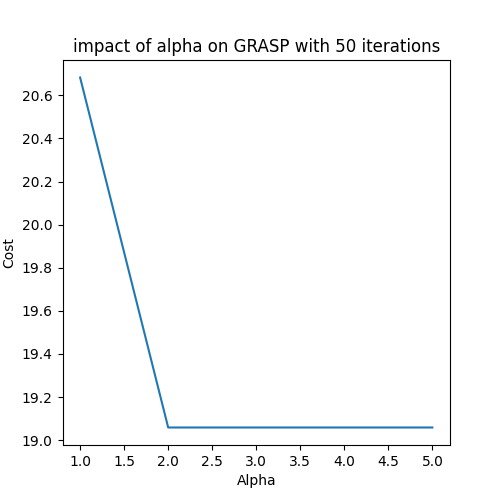
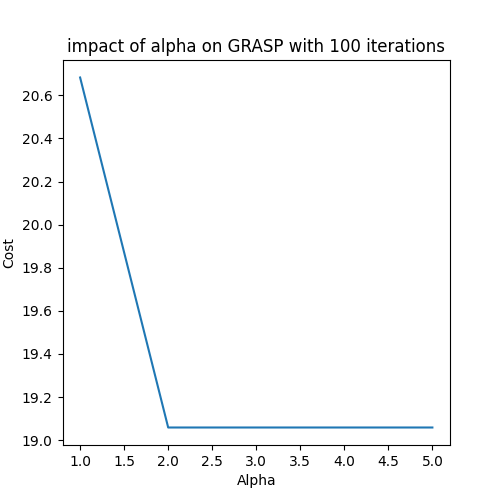
generate more plots and add comparison in fucntion of the number of cities

Changed region(s): [[0.12, 0.06, 0.9, 0.12]]

diff --git a/main.py b/main.py
@@ -12,45 +12,19 @@ if __name__ == "__main__":
         City("E", 6, 5),
         City("F", 1, 5),
         City("G", 3, 1),
-        City("H", 0, 5),#
-        # City("I", 5, 2),
-        # City("J", 3, 8),
-        # City("K", 8, 0),
-        # City("L", 5, 6),
-        # City("M", 2, 3),
-        # City("N", 4, 7),
-        # City("O", 6, 3),
-        # City("P", 4, 1),
-        # City("Q", 7, 8),
-        # City("R", 1, 1),
-        # City("S", 3, 4),
-        # City("T", 8, 4),
-        # City("U", 4, 0),
-        # City("V", 2, 8),
-        # City("W", 6, 7),
-        # City("X", 0, 2),
-        # City("Y", 5, 0),
-        # City("Z", 7, 5),
+        City("H", 0, 5)
     ]
-
-    alpha = 3
-    iterations = 100
-
-    # search
-    grasp = Grasp(alpha, iterations)
-    best_solution, t_explore, t_exploit = grasp.search(cities)
-    best_solution.print_solution(best_solution)
-    best_solution.plot_solution(best_solution)
 
     # test grasp using different values of alpha
     alphas = [i for i in range(1, 6)]
-    iterations = 50
+    iterations = 100
     explore_times = []
     exploit_times = []
     cost_solutions = []
     for alpha in alphas:
+        h = []
         grasp = Grasp(alpha, iterations)
-        best_solution, t_explore, t_exploit = grasp.search(cities)
+        best_solution, t_explore, t_exploit, h = grasp.search(cities)
         explore_times.append(t_explore)
         exploit_times.append(t_exploit)
         cost_solutions.append(best_solution.cost)
@@ -58,6 +32,13 @@ if __name__ == "__main__":
         print(f"Explore time: {t_explore}")
         print(f"Exploit time: {t_exploit}")
         print()
+        # plot the curve of the cost
+        plt.figure(figsize=(5, 5))
+        plt.plot(h)
+        plt.title(f"impact of alpha on cost variation")
+        plt.ylabel("Cost")
+        plt.xlabel("Iteration")
+        plt.savefig("{}{}.png".format("alpha_variation", alpha))
     # plot the results as group bars chart only for 2 variables (time explore and time exploit)
     plt.figure(figsize=(5, 5))
     barWidth = 0.25
@@ -66,7 +47,7 @@ if __name__ == "__main__":
     plt.bar(r1, explore_times, color="blue", width=barWidth, label="Explore time")
     plt.bar(r2, exploit_times, color="red", width=barWidth, label="Exploit time")
     plt.xticks([r + barWidth for r in range(len(explore_times))], alphas)
-    plt.title(f"impact of alpha on GRASP with {iterations} iterations")
+    plt.title(f"impact of alpha on GRASP")
     plt.ylabel("Time")
     plt.xlabel("Alpha")
     plt.legend()
@@ -87,15 +68,24 @@ if __name__ == "__main__":
     exploit_times = []
     cost_solutions = []
     for iteration in iterations:
+        h = []
         grasp = Grasp(alpha, iteration)
-        best_solution, t_explore, t_exploit = grasp.search(cities)
+        best_solution, t_explore, t_exploit, h = grasp.search(cities)
         explore_times.append(t_explore)
         exploit_times.append(t_exploit)
         cost_solutions.append(best_solution.cost)
+        h.append(best_solution.cost)
         print(f"Iteration: {iteration}")
         print(f"Explore time: {t_explore}")
         print(f"Exploit time: {t_exploit}")
         print()
+        # plot the curve of the cost
+        plt.figure(figsize=(5, 5))
+        plt.plot(h)
+        plt.title(f"impact of iteration on cost variation")
+        plt.ylabel("Cost")
+        plt.xlabel("Iteration")
+        plt.savefig("{}{}.png".format("iteration_variation", iteration))
     # plot the results as group bars chart only for 2 variables (time explore and time exploit)
     plt.figure(figsize=(5, 5))
     barWidth = 0.25
@@ -104,7 +94,7 @@ if __name__ == "__main__":
     plt.bar(r1, explore_times, color="blue", width=barWidth, label="Explore time")
     plt.bar(r2, exploit_times, color="red", width=barWidth, label="Exploit time")
     plt.xticks([r + barWidth for r in range(len(explore_times))], iterations)
-    plt.title(f"impact of iteration on GRASP with alpha = {alpha}")
+    plt.title(f"impact of iteration on GRASP")
     plt.ylabel("Time")
     plt.xlabel("Iteration")
     plt.legend()
@@ -114,7 +104,64 @@ if __name__ == "__main__":
     # plot the results of the cost
     plt.figure(figsize=(5, 5))
     plt.plot(iterations, cost_solutions)
-    plt.title(f"impact of iteration on GRASP with alpha = {alpha}")
+    plt.title(f"impact of iteration on GRASP")
     plt.ylabel("Cost")
     plt.xlabel("Iteration")
     plt.savefig("{}.png".format("iteration_cost"))
+
+    # generate random cities
+    tasks = []
+    for i in range(3):
+        citie = []
+        for j in range(10 * (i + 1)):
+            citie.append(City(f"{i}{j}", random.randint(0, 30), random.randint(0, 30)))
+        tasks.append(citie)          
+
+    alpha = 3
+    iteration = 100
+    explore_times = []
+    exploit_times = []
+    cost_solutions = []
+    for citie in tasks:
+        h = []
+        grasp = Grasp(alpha, iteration)
+        best_solution, t_explore, t_exploit, h = grasp.search(citie)
+        explore_times.append(t_explore)
+        exploit_times.append(t_exploit)
+        cost_solutions.append(best_solution.cost)
+        h.append(best_solution.cost)
+        print(f"Nbr Cities: {len(citie)}")
+        print(f"Explore time: {t_explore}")
+        print(f"Exploit time: {t_exploit}")
+        print()
+        # plot the curve of the cost
+        plt.figure(figsize=(5, 5))
+        plt.plot(h)
+        plt.title(f"impact of number of cities on cost variation")
+        plt.ylabel("Cost")
+        plt.xlabel("cities")
+        plt.savefig("{}{}.png".format("cities_variation", len(citie)))
+        # print the solution
+        best_solution.plot_solution(best_solution)
+    # plot the results as group bars chart only for 2 variables (time explore and time exploit)
+    plt.figure(figsize=(5, 5))
+    barWidth = 0.25
+    r1 = np.arange(len(explore_times))
+    r2 = [x + barWidth for x in r1]
+    plt.bar(r1, explore_times, color="blue", width=barWidth, label="Explore time")
+    plt.bar(r2, exploit_times, color="red", width=barWidth, label="Exploit time")
+    plt.xticks([r + barWidth for r in range(len(explore_times))], [10, 20, 30])
+    plt.title(f"impact of number of cities on GRASP")
+    plt.ylabel("Time")
+    plt.xlabel("cities")
+    plt.legend()
+    # save the plot
+    plt.savefig("{}.png".format("cities_time"))
+
+    # plot the results of the cost
+    plt.figure(figsize=(5, 5))
+    plt.plot([10, 20, 30], cost_solutions)
+    plt.title(f"impact of number of cities on GRASP")
+    plt.ylabel("Cost")
+    plt.xlabel("cities")
+    plt.savefig("{}.png".format("cities_cost"))

diff --git a/grasp.py b/grasp.py
@@ -62,7 +62,8 @@ class Solution:
             [solution.cities[-1].y, solution.cities[0].y],
             color="blue",
         )
-        plt.show()
+        plt.title(f"Solution with cost {solution.cost}")
+        plt.savefig("{}{}.png".format("solution", solution.cost))
 
 
 # class grasp
@@ -133,6 +134,7 @@ class Grasp:
         solutions = []
         exploration_time = 0
         exploitation_time = 0
+        cost_history = []
         for i in tqdm.tqdm(range(self.iterations)):
             start = time.time()
             solution = self.construct_greedy_randomized_solution(cities)
@@ -143,4 +145,5 @@ class Grasp:
             end = time.time()
             exploitation_time += end - start
             solutions.append(solution)
-        return self.sort_by_cost(solutions)[0], exploration_time, exploitation_time
+            cost_history.append(solution.cost)
+        return self.sort_by_cost(solutions)[0], exploration_time, exploitation_time, cost_history
